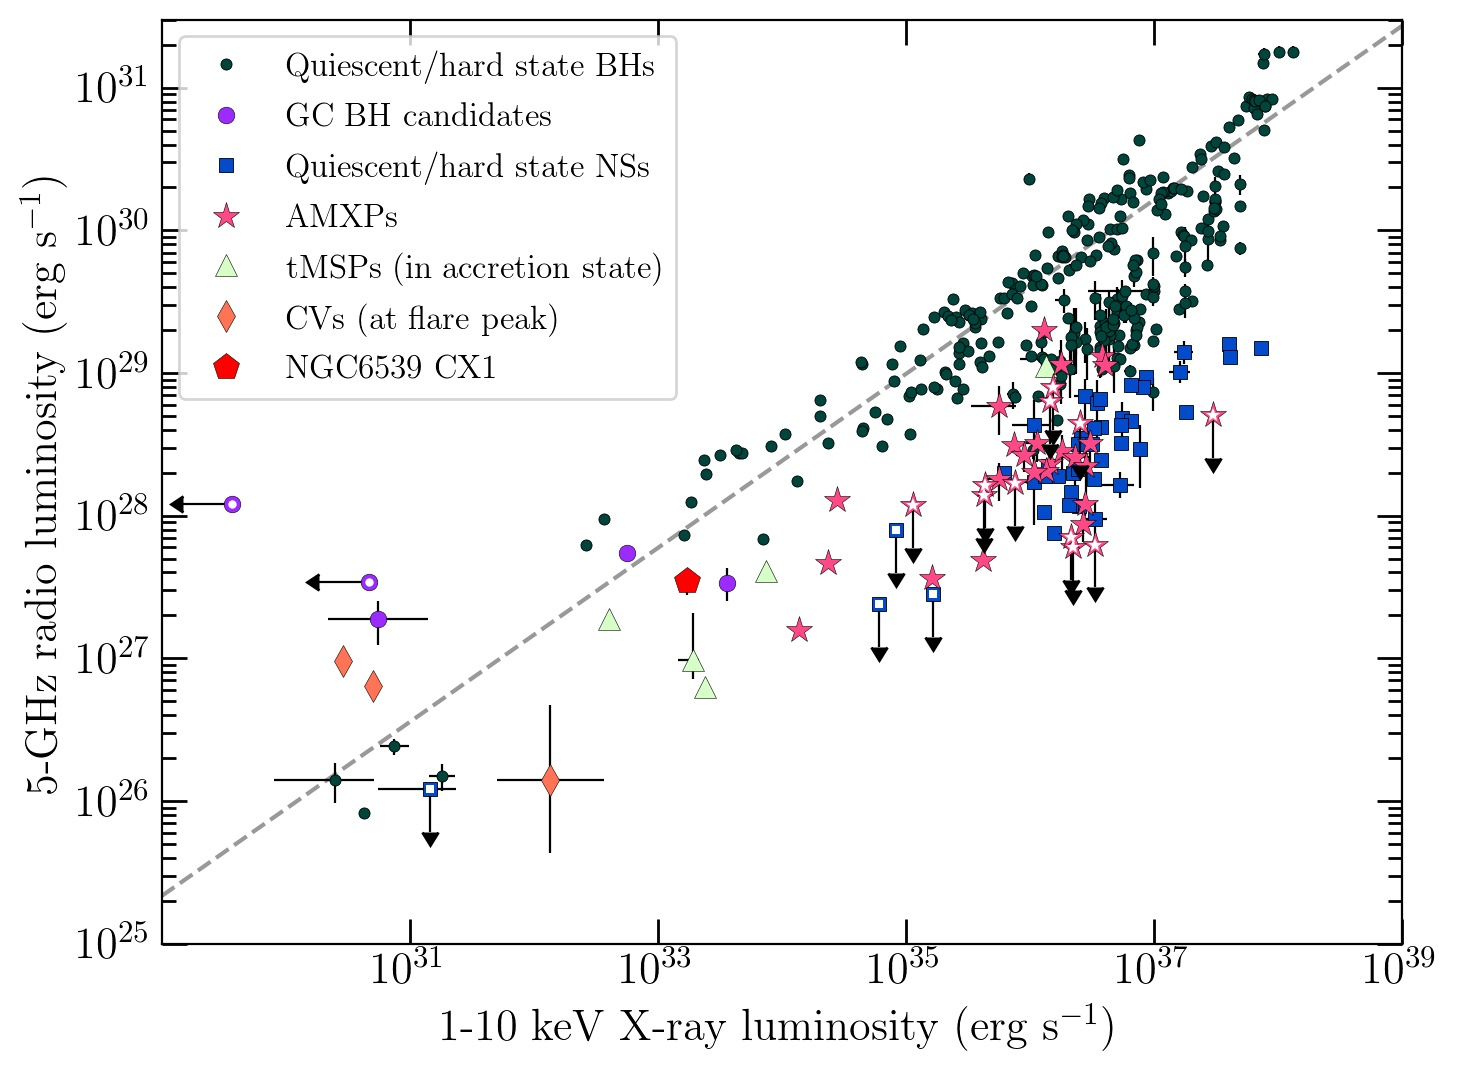
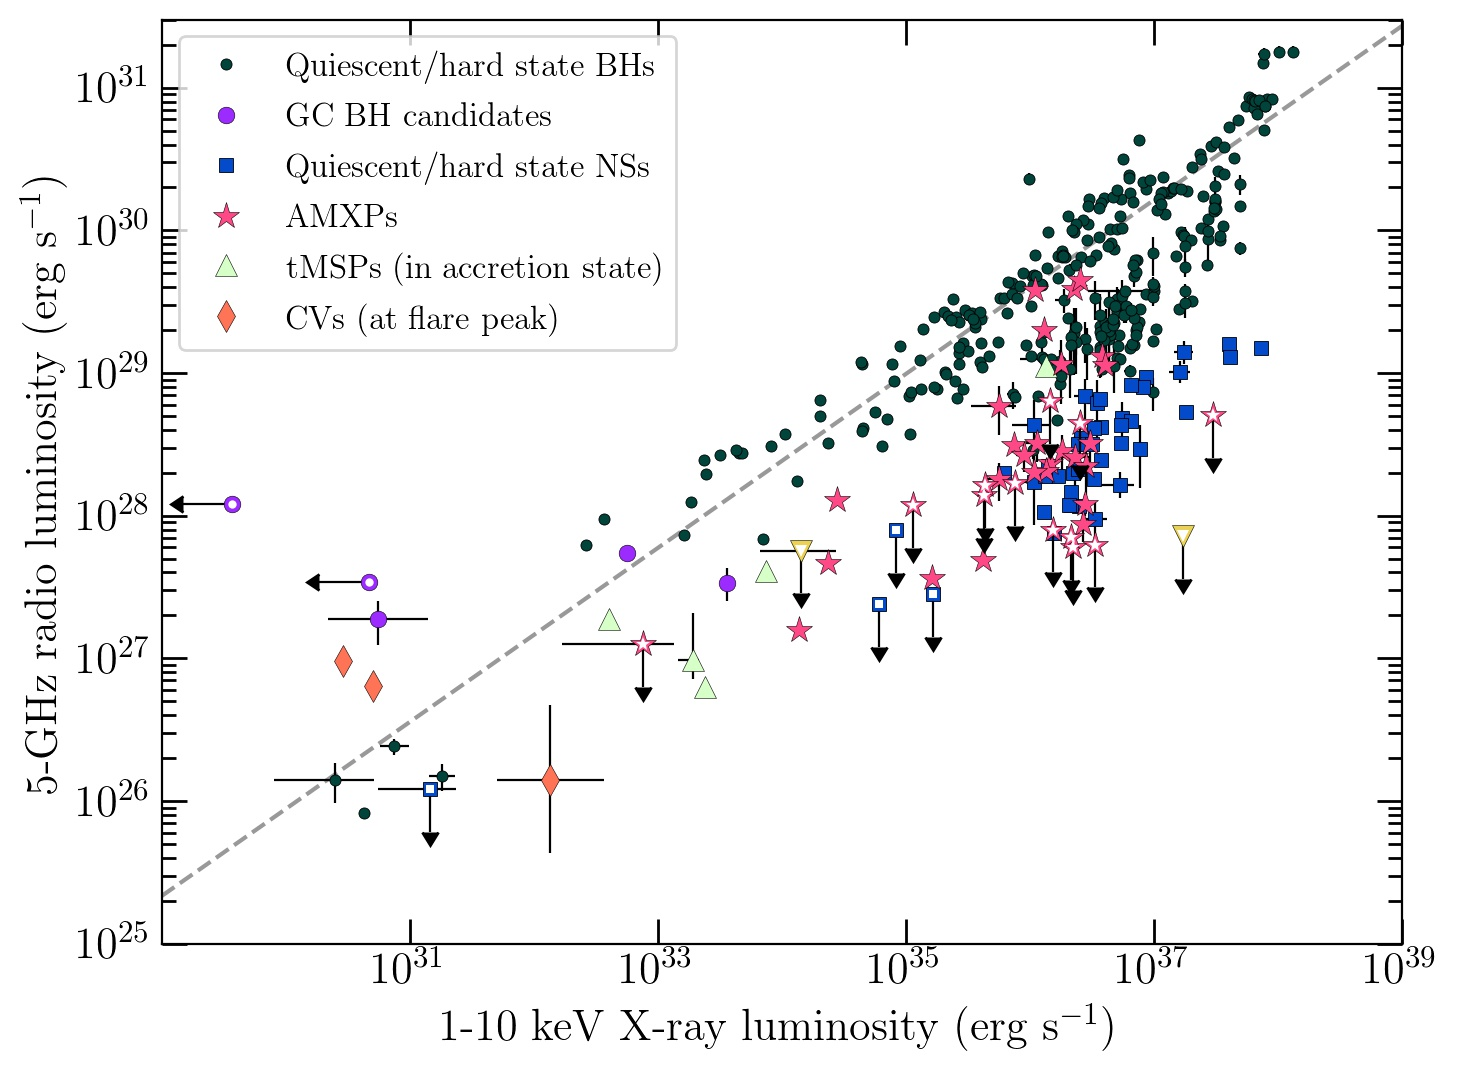
2020update 1

diff --git a/README.md b/README.md
@@ -97,6 +97,7 @@ All the sources included in this database and plot are tabulated below. Addition
 |         MAXI J0911-635 |    AMXP |         NGC 2808 |                                                                             Tudor et al. 2016, ATel, 8914 |
 |          XTE J0929-314 |    AMXP |             None |                                                                    Migliari et al. 2011, MNRAS, 415, 2407 |
 |        IGR J17379-3747 |    AMXP |             None |                             van den Eijnden et al. 2018, ATel, 11487; Strohmayer et al. 2018, ATel, 11507 |
+|        IGR J17591-2342 |    AMXP |             None |                              Russell et al. 2018, ApJL, 869, 16; Gusinskaia et al. 2020, MNRAS, 492, 1091 |
 |                 SS Cyg |      CV |             None |                                                                     Russell et al. 2016, MNRAS, 460, 3720 |
 |                 AE Aqr |      CV |             None |                              Eracleous et al. 1991, ApJ, 382, 290; Abada-Simon et al. 1993, ApJ, 406, 692 |
 |                 AR Sco |      CV |             None |                                                                        Marsh et al. 2016, Natur, 537, 374 |
@@ -119,6 +120,11 @@ Since publication of the version published in [TetarBenko, B., et al. 2016](http
 - **IGR J17379-3747** added based on [van den Eijnden et al. 2018](http://www.astronomerstelegram.org/?read=11487). NICER observations identified this transient as an AMXP ([Strohmayer et al. 2018](http://www.astronomerstelegram.org/?read=11507)).
 - **Major update (Apr 2018)** We have now added multiple sources and more data to some exisiting sources based on archival studies (Motta et al., in prep.).
 - **Release of Version 0.1 (May 2018)** 
+- **2020 update 1**:
+   - A radio uppler limit data point for IGR J17511-3057 from [Tudor et al. 2017](http://adsabs.harvard.edu/abs/2017MNRAS.470..324T) was included here with a numerical error. The upper limit is 8e+27, and not 8e+28.
+   - One omitted data point for IGR J00291+5934 ([Tudor et al. 2017](http://adsabs.harvard.edu/abs/2017MNRAS.470..324T)) is now included.
+   - New source IGR J17591-2342 added based on [Russell et al. 2018](https://ui.adsabs.harvard.edu/abs/2018ApJ...869L..16R/abstract) and [Gusinskaia et al. 2020](https://ui.adsabs.harvard.edu/abs/2020MNRAS.492.1091G/abstract).
+   - Thanks to Nina Gusinskaia for poiting out these issues and providing the data.
 
 ## Warnings and cautions:
 
@@ -170,7 +176,7 @@ Bibtex:
 
 This repository is maintained and updated by [Arash Bahramian](https://bersavosh.github.io/). Feel free to contact me if you have suggestions/comments/questions. 
 
-Contributors: [Alex Tetarenko](https://sites.ualberta.ca/~tetarenk/), [James Miller-Jones](https://staffportal.curtin.edu.au/staff/profile/view/James.Miller-Jones), [Jay Strader](http://web.pa.msu.edu/people/strader/), [Richard Plotkin](https://staffportal.curtin.edu.au/staff/profile/view/Richard.Plotkin), [Anthony Rushton](http://www2.physics.ox.ac.uk/contacts/people/rushton), [Vlad Tudor](https://www.icrar.org/people/vtudor/), [Laura Shishkovsky](https://astro.natsci.msu.edu/people/laura-shishkovsky/), [Sara Motta](https://www.wadham.ox.ac.uk/people/fellows-and-academic-staff/m/sara-motta).
+Contributors: [Alex Tetarenko](https://sites.ualberta.ca/~tetarenk/), [James Miller-Jones](https://staffportal.curtin.edu.au/staff/profile/view/James.Miller-Jones), [Jay Strader](http://web.pa.msu.edu/people/strader/), [Richard Plotkin](https://staffportal.curtin.edu.au/staff/profile/view/Richard.Plotkin), [Anthony Rushton](http://www2.physics.ox.ac.uk/contacts/people/rushton), [Vlad Tudor](https://www.icrar.org/people/vtudor/), [Laura Shishkovsky](https://astro.natsci.msu.edu/people/laura-shishkovsky/), [Sara Motta](https://www.wadham.ox.ac.uk/people/fellows-and-academic-staff/m/sara-motta), [Nina Gusinskaia](https://www.astro.utoronto.ca/people/post-docs/name/nina-gusinskaia/).
 
 ## Plots:
 ### The Lr-LX plot with sources marked/colored by class:
